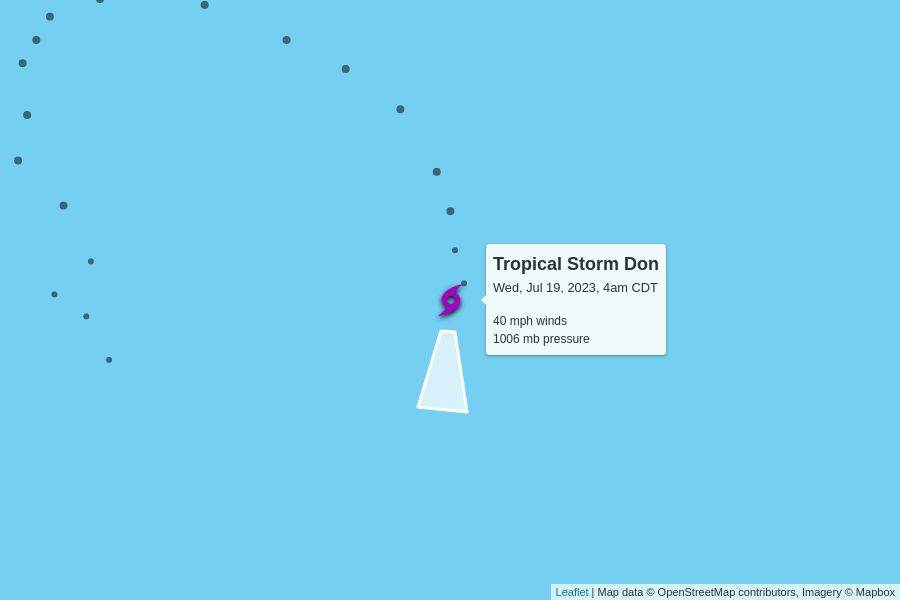
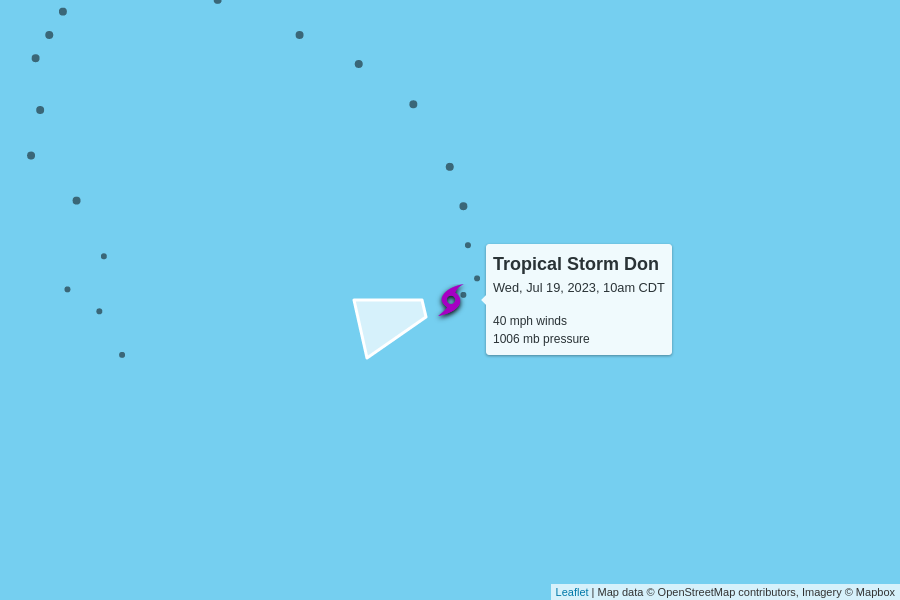
automatic update

diff --git a/docs/index.html b/docs/index.html
@@ -100,7 +100,7 @@
         <td colspan="6" class="storm category-0" >
           <h2>
             Tropical Storm Don
-            <p class="updated">last updated <span data-time>2023-07-19T09:00:00.000Z</span></p>
+            <p class="updated">last updated <span data-time>2023-07-19T15:00:00.000Z</span></p>
           </h2>
         </td>
       </tr>
@@ -118,9 +118,9 @@
         <td>40 mph</td>
         <td>1006 mb</td>
         <td>
-          5 mph to the south
+          5 mph to the west-southwest
           <br/>
-          <span style="display: inline-block; font-size: 1.5em; transform: rotate(185deg);">↑</span>
+          <span style="display: inline-block; font-size: 1.5em; transform: rotate(255deg);">↑</span>
         </td>
         <td><a href="https://raw.githubusercontent.com/mgwalker/atlantic-hurricanes/main/data/csv/AL052023.csv">AL052023.csv</a></td>
         <td><a href="https://www.nhc.noaa.gov/archive/2023/DON.shtml?">NHC advisories</a></td>
